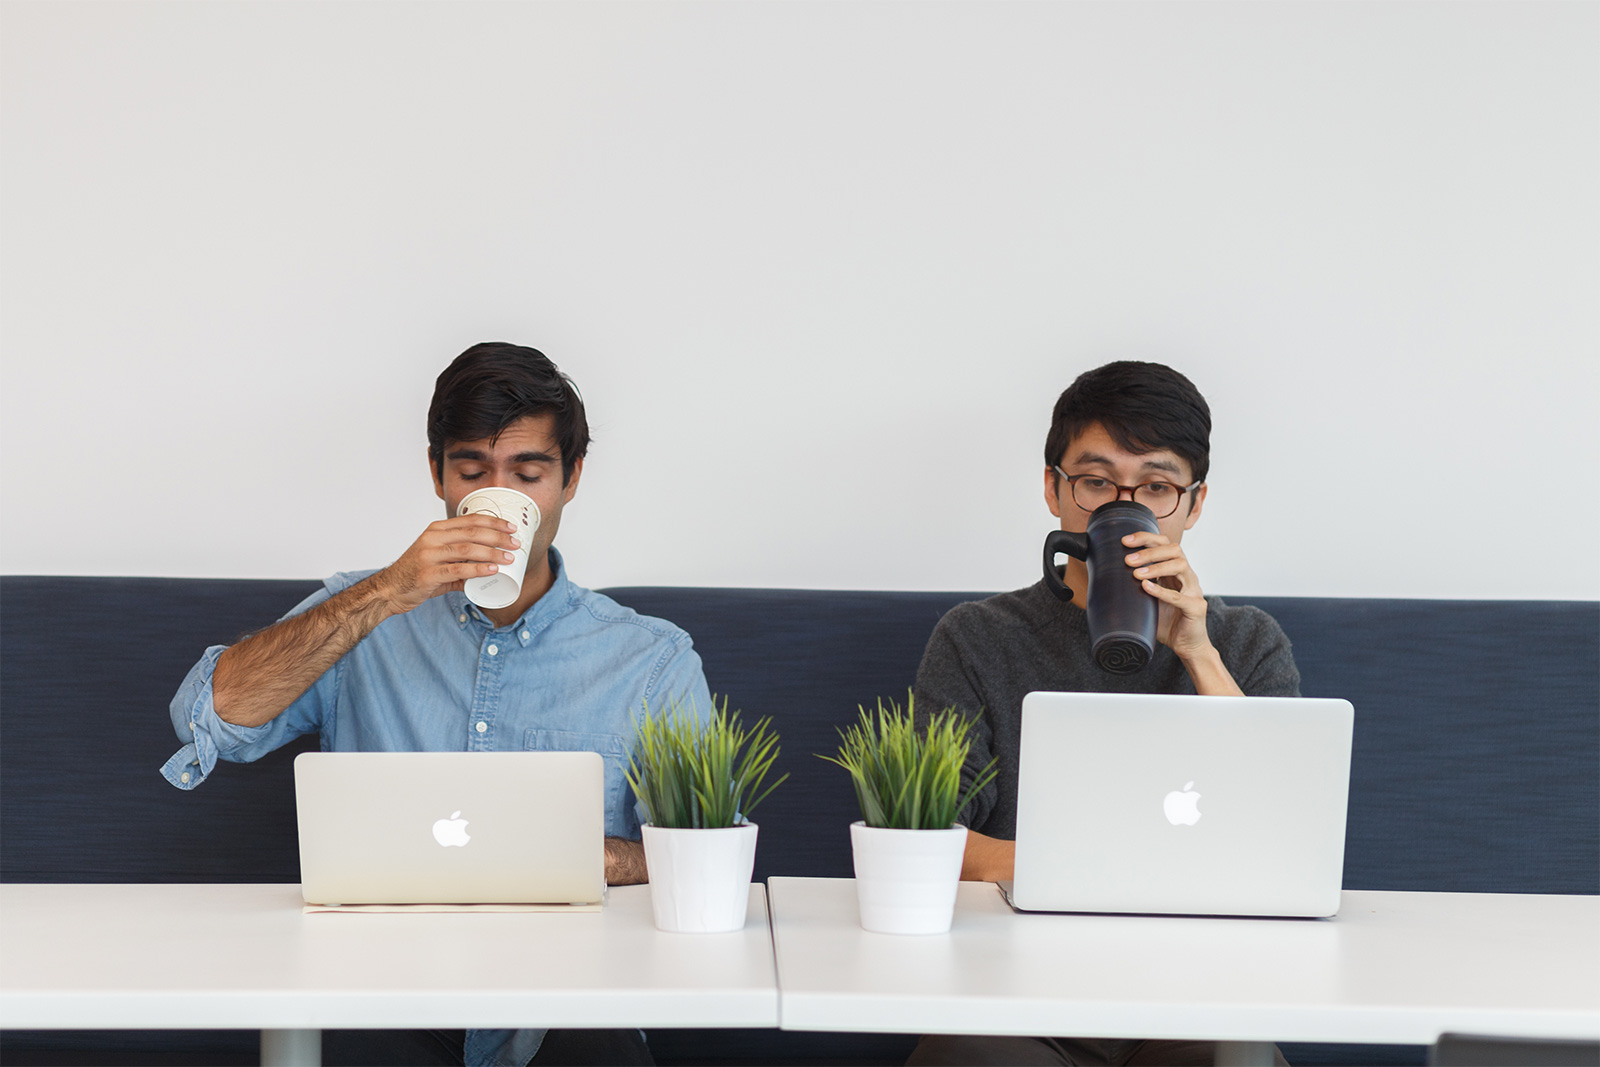
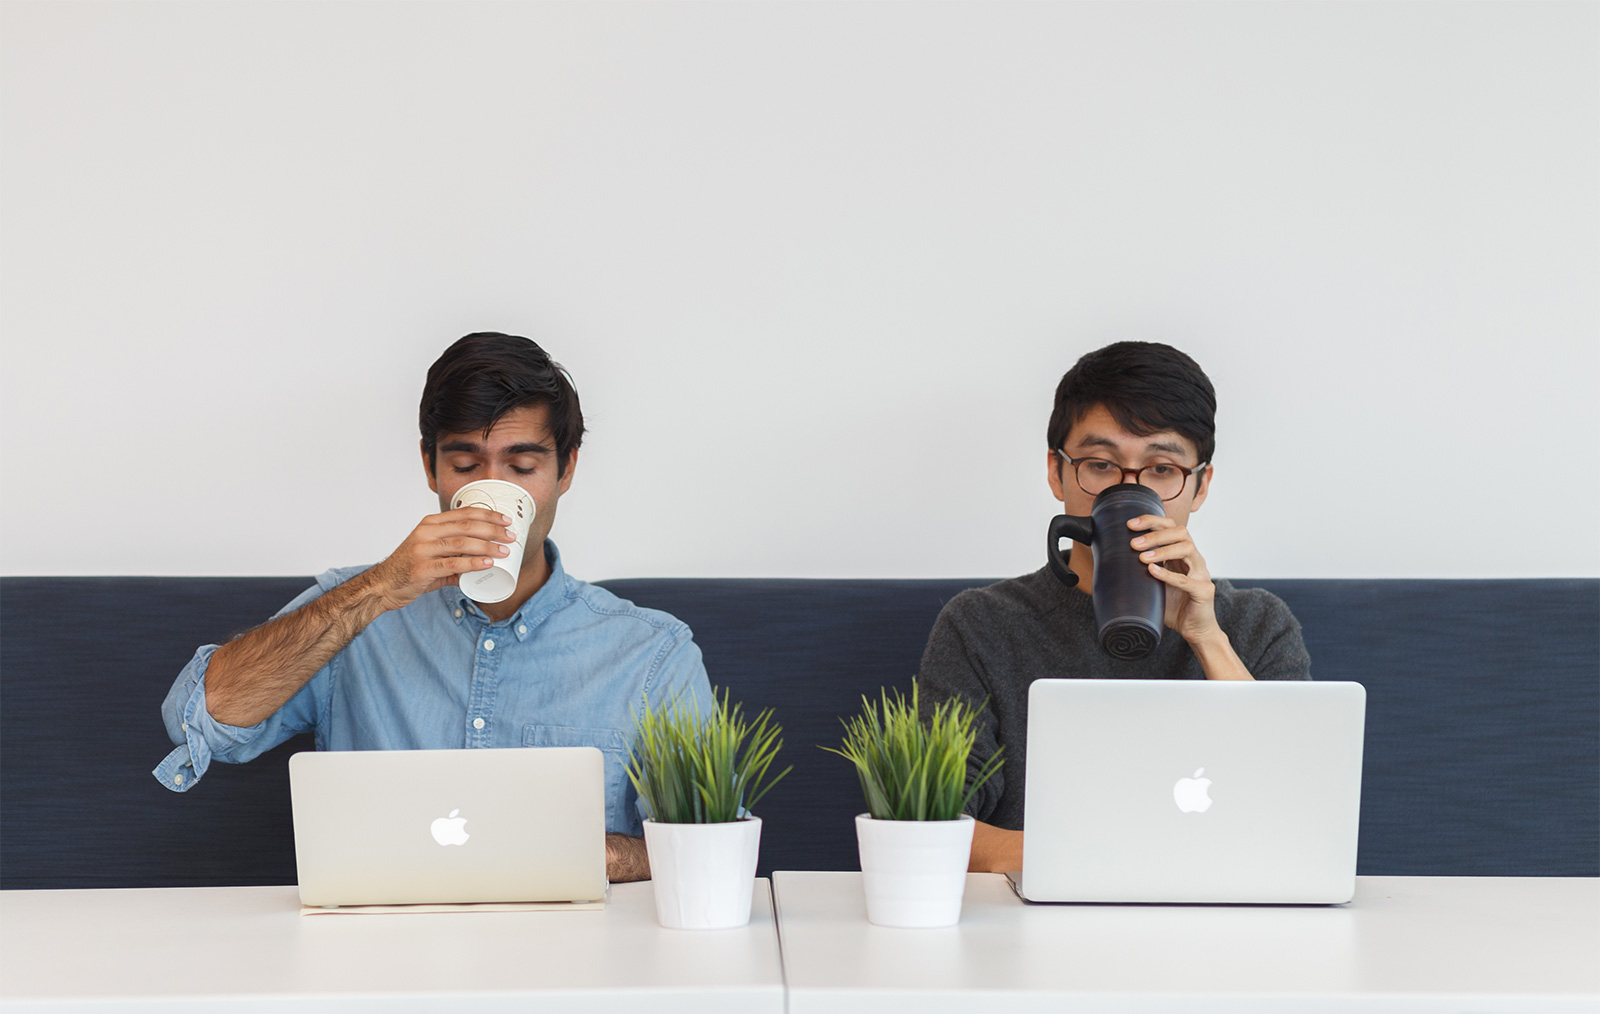
Levels desktop hero image, adds Nhan credit, fixes sidedness of Paul Team image

diff --git a/src/components/Footer/Footer.jsx b/src/components/Footer/Footer.jsx
@@ -8,7 +8,7 @@ const Footer = () => {
     <footer className="footer">
       <div className="container">
         <div className="columns">
-          <div className="column is-3 content">
+          <div className="column is-3">
             <h5 className="title is-5 grn-underline">Navigation</h5>
             <Link to="/#mission">Mission</Link>
             <br />
@@ -23,14 +23,15 @@ const Footer = () => {
               Anduin Web Development is based in sunny San Diego, CA. &#9728;
             </p>
           </div>
-          <div className="column is-3 content">
+          <div className="column is-3">
             <h5 className="title is-5 grn-underline">Site</h5>
             <Link to="/terms-and-privacy">Terms & Privacy</Link>
             <br />
             <Link to="/sitemap">Sitemap</Link>
             <br />
           </div>
-          <div className="column is-3 is-offset-3">
+          <div className="column is-3" />
+          <div className="column is-3">
             <h5 className="title is-5 grn-underline">Social</h5>
             <div>
               <SocialLinks
@@ -39,6 +40,9 @@ const Footer = () => {
                 twitter="https://twitter.com/AnduinWeb"
               />
             </div>
+            <h5 className="title is-5 grn-underline">Credits</h5>
+            With beautiful photos by&nbsp;
+            <a href="http://nhantnguyen.com/">Nhan Nguyen</a>.
           </div>
         </div>
       </div>

diff --git a/src/components/Team/PaulProfile.jsx b/src/components/Team/PaulProfile.jsx
@@ -6,6 +6,9 @@ import paul from '../../assets/paul-at-work.jpg';
 const PaulProfile = props => {
   return (
     <div className="columns">
+      <div className="column is-5 awd-mobile-show">
+        <Mugshot src={paul} />
+      </div>
       <div className="column is-7 content">
         <h3 className="title is-3">Paul Newsam</h3>
         <h5 className="subtitle is-5">Web Developer</h5>
@@ -34,7 +37,7 @@ const PaulProfile = props => {
           </a>
         </div>
       </div>
-      <div className="column is-5">
+      <div className="column is-5 awd-mobile-hide">
         <Mugshot src={paul} />
       </div>
     </div>

diff --git a/src/layouts/index.scss b/src/layouts/index.scss
@@ -22,3 +22,16 @@ body {
   text-decoration: underline;
   text-decoration-color: $secondary;
 }
+
+.column.awd-mobile-show {
+  display: none;
+  @media screen and (max-width: 768px) {
+    display: block;
+  }
+}
+.column.awd-mobile-hide {
+  display: block;
+  @media screen and (max-width: 768px) {
+    display: none;
+  }
+}

diff --git a/src/components/Home/Hero.jsx b/src/components/Home/Hero.jsx
@@ -21,6 +21,9 @@ const Div = styled.div`
   @media screen and (max-width: 500px) {
     transform: translateY(-100px);
   }
+  @media screen and (min-width: 501px) and (max-width: 740px) {
+    display: none;
+  }
 `;
 
 const Logo = styled.div`
